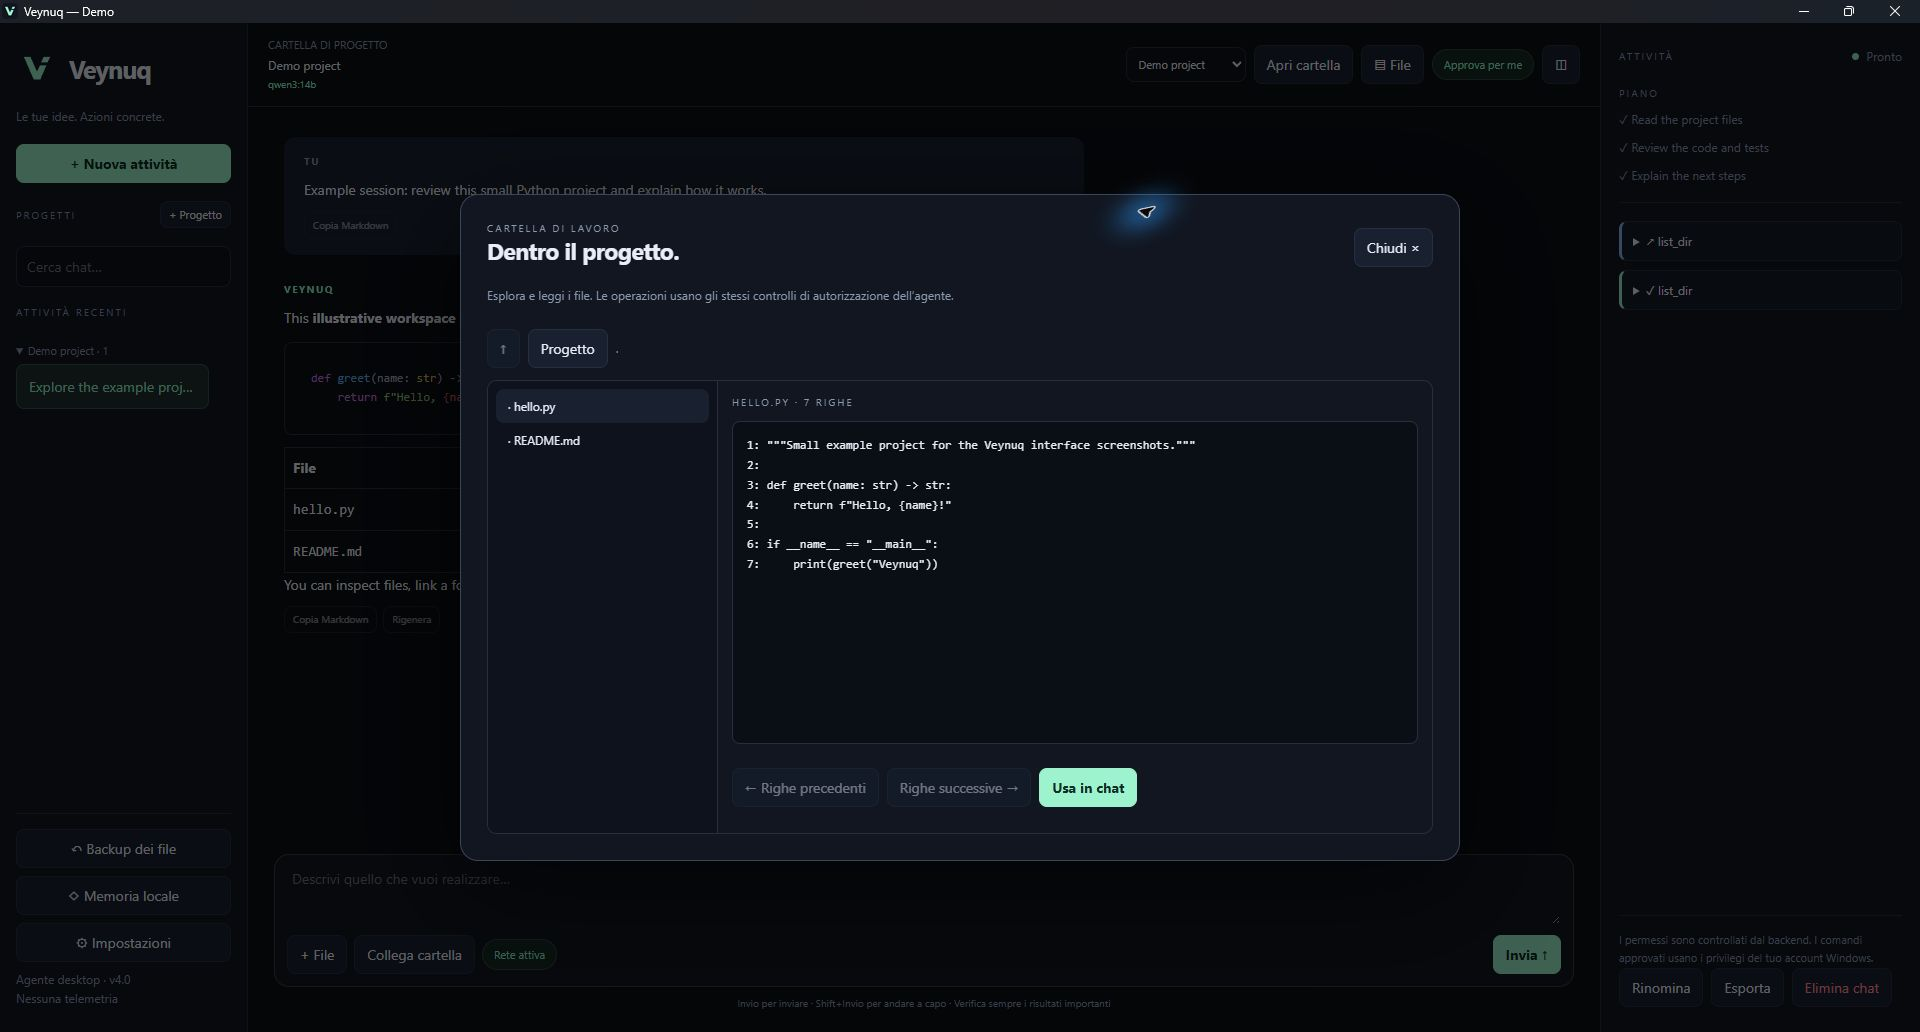
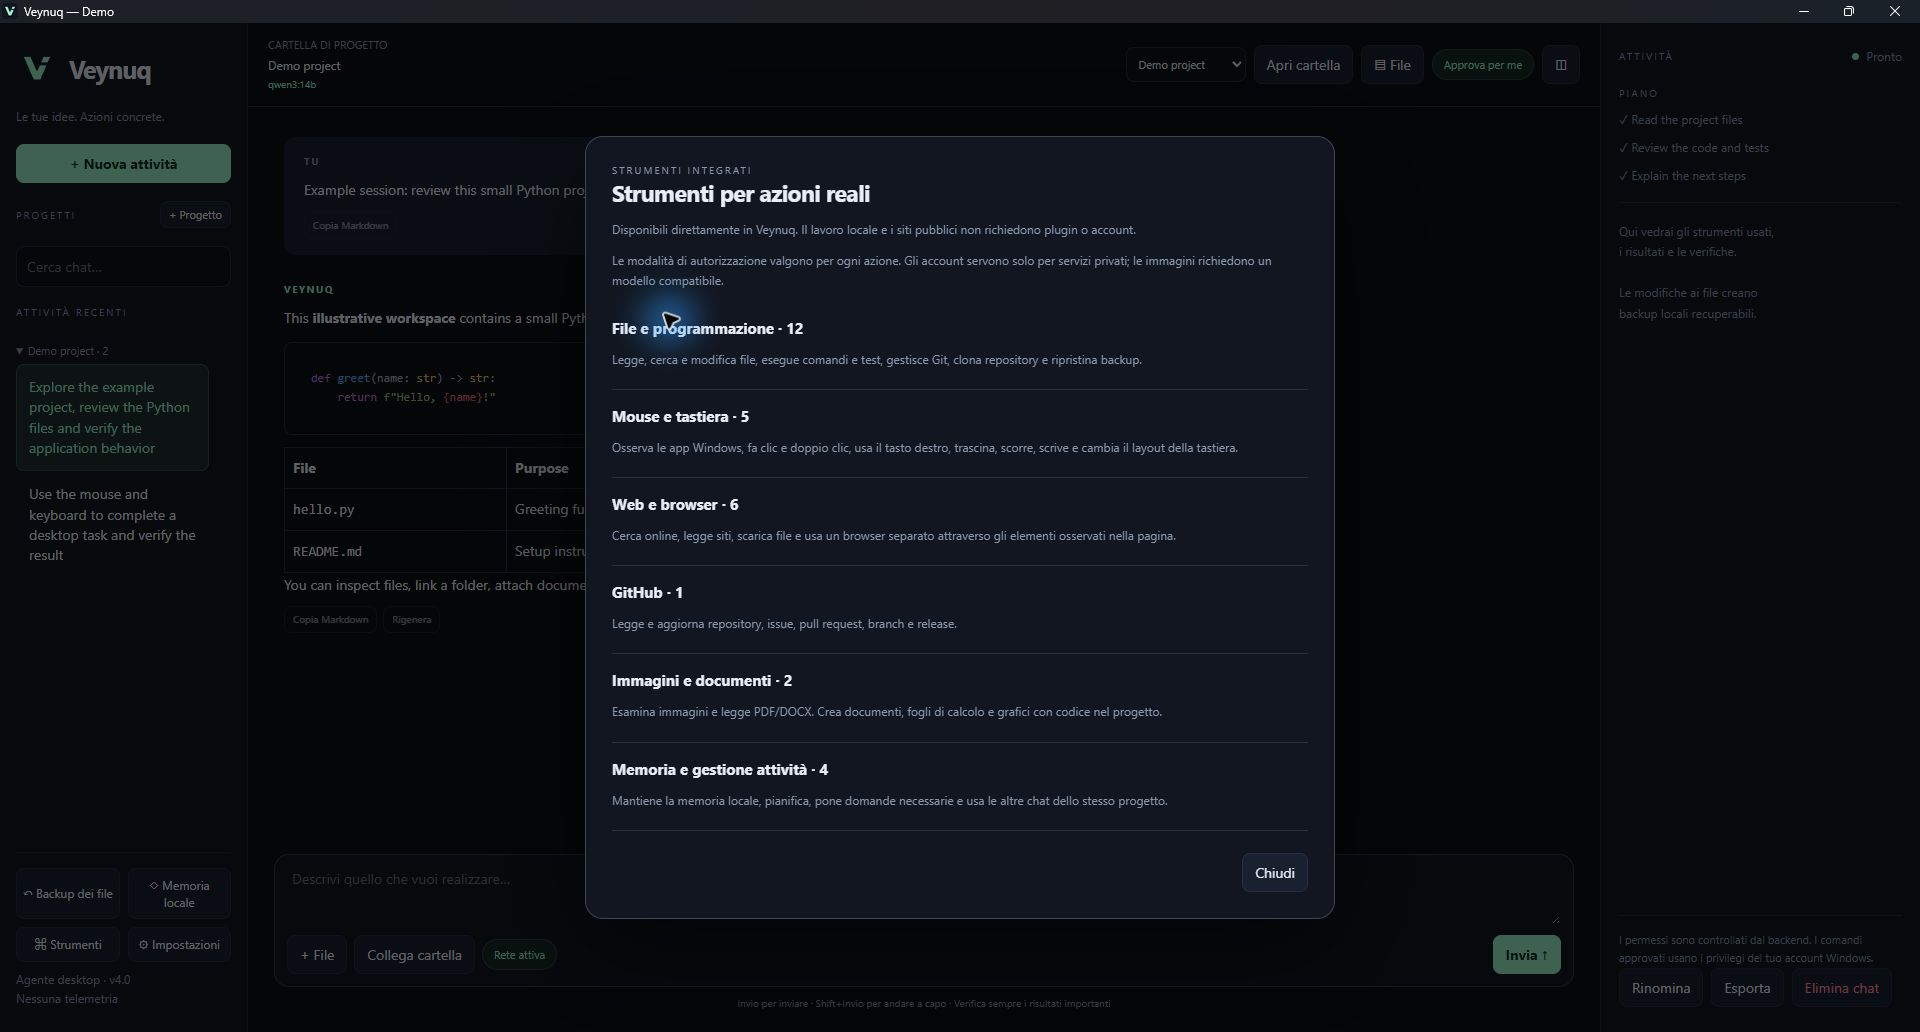
Refresh three illustrative screenshots after visual QA

diff --git a/README.md b/README.md
@@ -6,15 +6,15 @@ Veynuq (pronounced “VAY-nook”) is an independent Windows desktop AI agent. I
 
 ## See Veynuq
 
-Three screenshots of the running Windows application with an isolated demo profile. The illustrative conversation contains no personal chat or credentials and is not a benchmark.
+Three screenshots of the running Windows application in Italian with an isolated demo profile. The illustrative conversation contains no personal chat or credentials and is not a benchmark. New profiles start in English.
 
 **Workspace and conversation** — both user and agent messages are aligned left; the composer stays visible while history scrolls.
 
 ![Workspace and conversation](docs/screenshots/workspace.png)
 
-**Project explorer** — browse folders, read real files and refer to them in chat.
+**Integrated tools** — file and coding actions, mouse and keyboard, browser, GitHub, documents and memory.
 
-![Project explorer](docs/screenshots/explorer.png)
+![Integrated tools](docs/screenshots/explorer.png)
 
 **Models and settings** — installed models, the ten-model download selector, custom names and information beside each model. Permissions and provider credentials are further down the same panel.
 
